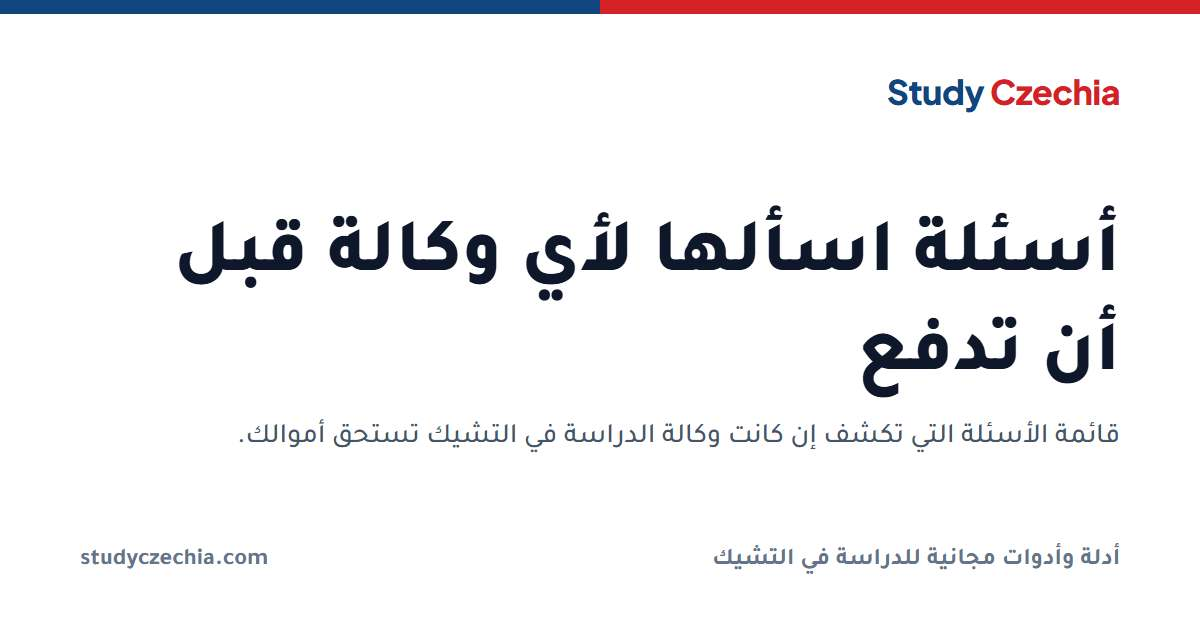
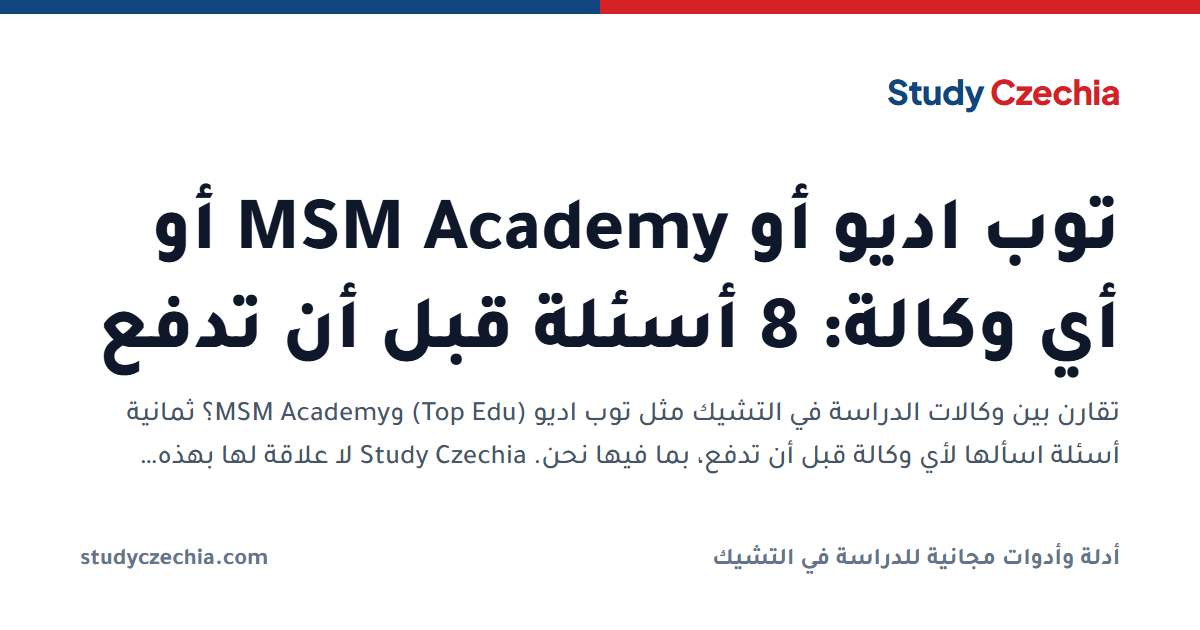
Agency questions page: name Top Edu and MSM Academy for search
The owner wants the site to appear when students search for other study
agencies (Top Edu / توب اديو, MSM Academy). The "8 questions to ask any
agency" page is the honest place for that: a short section names them,
says Study Czechia has no connection to them and makes no claims about
their services, and tells students to ask them the same eight questions.
Titles and descriptions in English and Arabic now include the names.

Changed region(s): [[0.0617, 0.3016, 0.9558, 0.754]]

diff --git a/src/app/questions-to-ask/QuestionsToAskClient.tsx b/src/app/questions-to-ask/QuestionsToAskClient.tsx
@@ -103,6 +103,9 @@ const t = {
     title: "Before You Pay Any Agency, Ask These 8 Questions",
     intro:
       "I'm not going to tell you which agency to use. I'm going to give you the questions I wish someone had given me before I paid anyone. Ask these of any agency, including me. If someone can't answer clearly, that tells you what you need to know.",
+    compareTitle: "Comparing Top Edu, MSM Academy or another agency?",
+    compareBody:
+      "Whether you're looking at Top Edu, MSM Academy or any other agency for studying in Czechia, ask each of them these eight questions and compare the answers in writing. Study Czechia has no connection to these companies, and this page makes no claims about their services.",
     closing:
       "If you're wondering how I'd answer: I'm a student living in Brno, I do live mock interviews, my prices are on the site, I refund within 48 hours, I support you for 30 days after you land, and yes, you can absolutely do this without me. The free guides here are for exactly that.",
   },
@@ -110,6 +113,9 @@ const t = {
     title: "قبل ما تدفع لأي وكالة، اسأل الـ 8 أسئلة دول",
     intro:
       "مش هقولك تستخدم أنهي وكالة. هديك الأسئلة اللي كنت اتمنى حد يديهالي قبل ما ادفع لحد. اسأل أي وكالة، بما فيهم أنا. لو حد مش قادر يجاوب بوضوح، ده بيقولك كل اللي محتاج تعرفه.",
+    compareTitle: "بتقارن بين توب اديو أو MSM Academy أو أي وكالة تانية؟",
+    compareBody:
+      "سواء بتفكر في توب اديو (Top Edu) أو MSM Academy أو أي وكالة تانية للدراسة في التشيك، اسأل كل واحدة فيهم الـ 8 أسئلة دول وقارن الإجابات مكتوبة. Study Czechia ملهاش أي علاقة بالشركات دي، والصفحة دي مش بتقول أي حاجة عن خدماتهم.",
     closing:
       "لو بتسأل ازاي انا هجاوب: انا طالب عايش في برنو، بعمل مقابلات تجريبية لايف، اسعاري على الموقع، برجع الفلوس خلال 48 ساعة، بساعدك 30 يوم بعد ما توصل، وأيوه، تقدر تعمل كل ده لوحدك. الأدلة المجانية هنا عشان كده بالظبط.",
   },
@@ -187,6 +193,11 @@ export default function QuestionsToAskClient() {
               {l.intro}
             </blockquote>
           </motion.div>
+
+          <section className="rounded-2xl border border-border-subtle bg-surface/60 p-5 mb-8">
+            <h2 className="text-lg font-semibold text-text-primary mb-2">{l.compareTitle}</h2>
+            <p className="text-text-secondary">{l.compareBody}</p>
+          </section>
 
           {/* Questions */}
           <div className="space-y-4 mb-12">

diff --git a/src/i18n/ar-metadata.ts b/src/i18n/ar-metadata.ts
@@ -83,8 +83,8 @@ export const AR_PAGE_META: Record<string, { title: string; description: string }
     description: "التأشيرة، والأوراق، والسكن، ومقابلة السفارة: إجابات من طلاب عاشوا التجربة.",
   },
   "/questions-to-ask/": {
-    title: "أسئلة اسألها لأي وكالة قبل أن تدفع",
-    description: "قائمة الأسئلة التي تكشف إن كانت وكالة الدراسة في التشيك تستحق أموالك.",
+    title: "توب اديو أو MSM Academy أو أي وكالة: 8 أسئلة قبل أن تدفع",
+    description: "تقارن بين وكالات الدراسة في التشيك مثل توب اديو (Top Edu) وMSM Academy؟ ثمانية أسئلة اسألها لأي وكالة قبل أن تدفع، بما فيها نحن. Study Czechia لا علاقة لها بهذه الشركات.",
   },
   "/scholarships/": {
     title: "المنح الدراسية في التشيك",

diff --git a/src/app/questions-to-ask/page.tsx b/src/app/questions-to-ask/page.tsx
@@ -2,9 +2,9 @@ import QuestionsToAskClient from "./QuestionsToAskClient";
 import type { Metadata } from "next";
 
 export const metadata: Metadata = {
-  title: "Before You Pay Any Agency, Ask These 8 Questions",
+  title: "Top Edu, MSM Academy or Another Agency? Ask These 8 Questions First",
   description:
-    "Eight questions every student should ask before paying any study-abroad agency. Ask these of any agency, including us.",
+    "Comparing Top Edu, MSM Academy or another agency for studying in Czechia? Eight questions to ask before you pay any agency, including us. Study Czechia is not connected to these companies.",
   alternates: { canonical: "/questions-to-ask" },
 };
 
